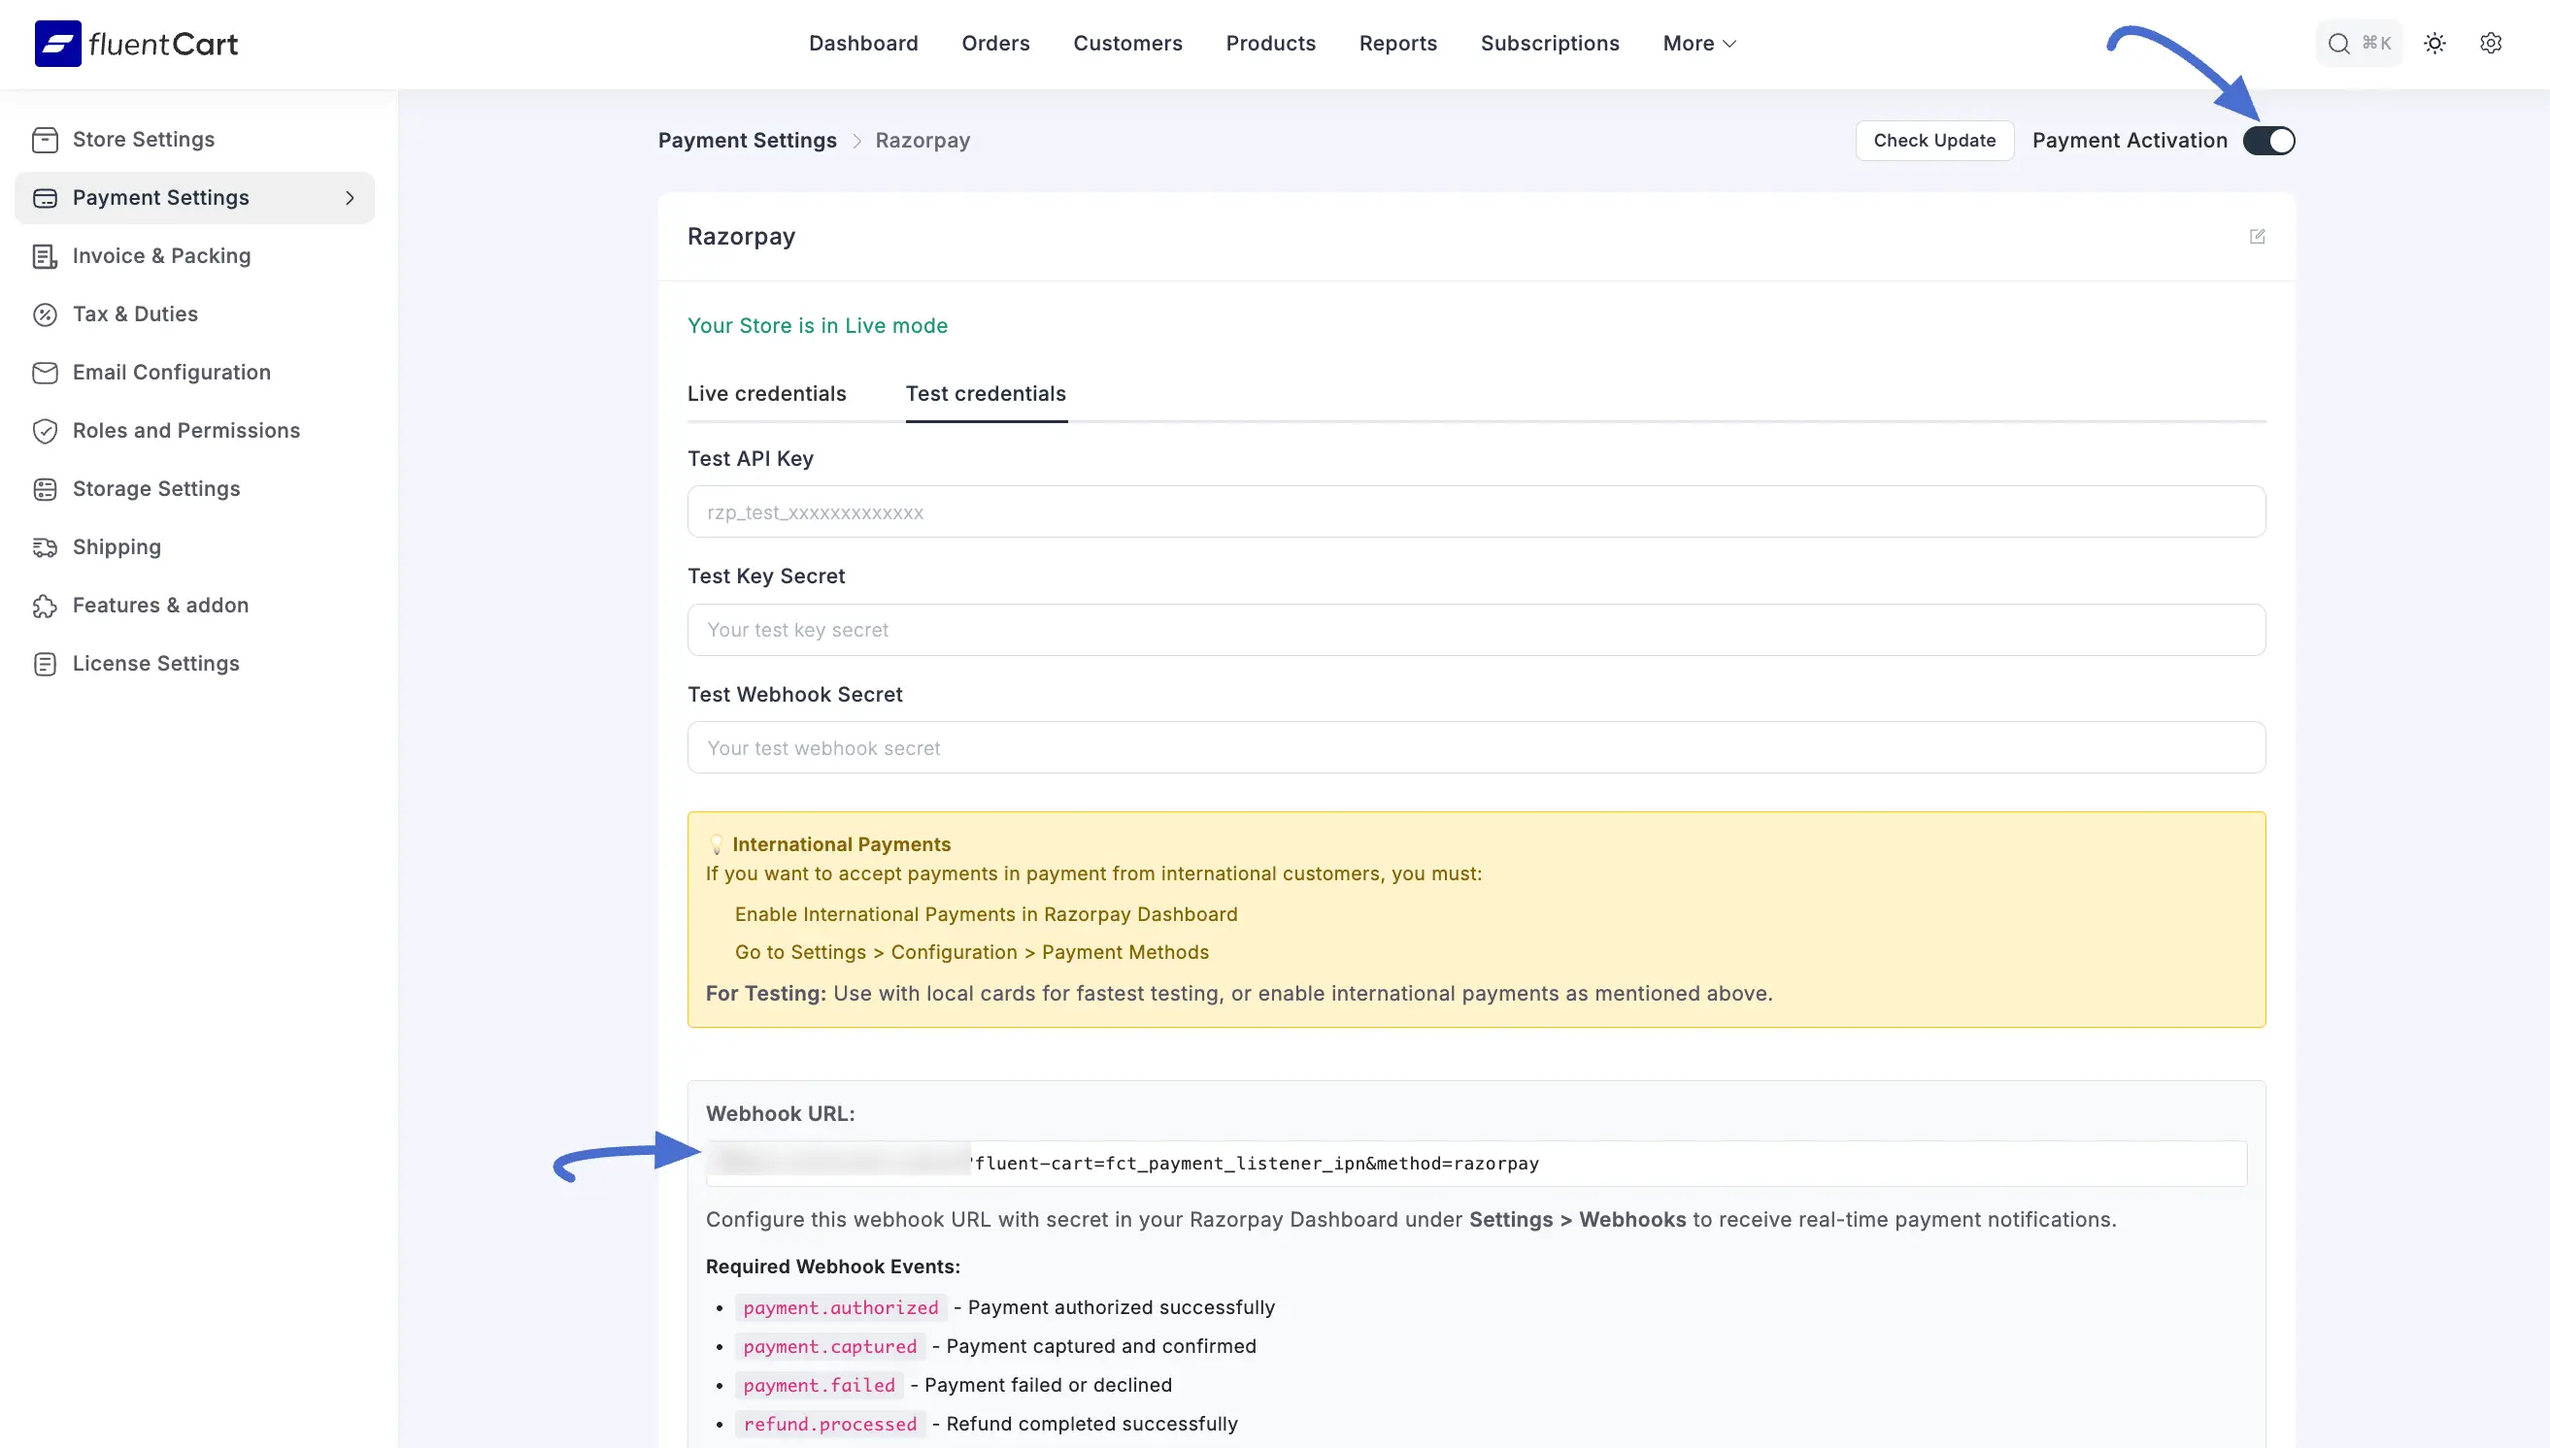
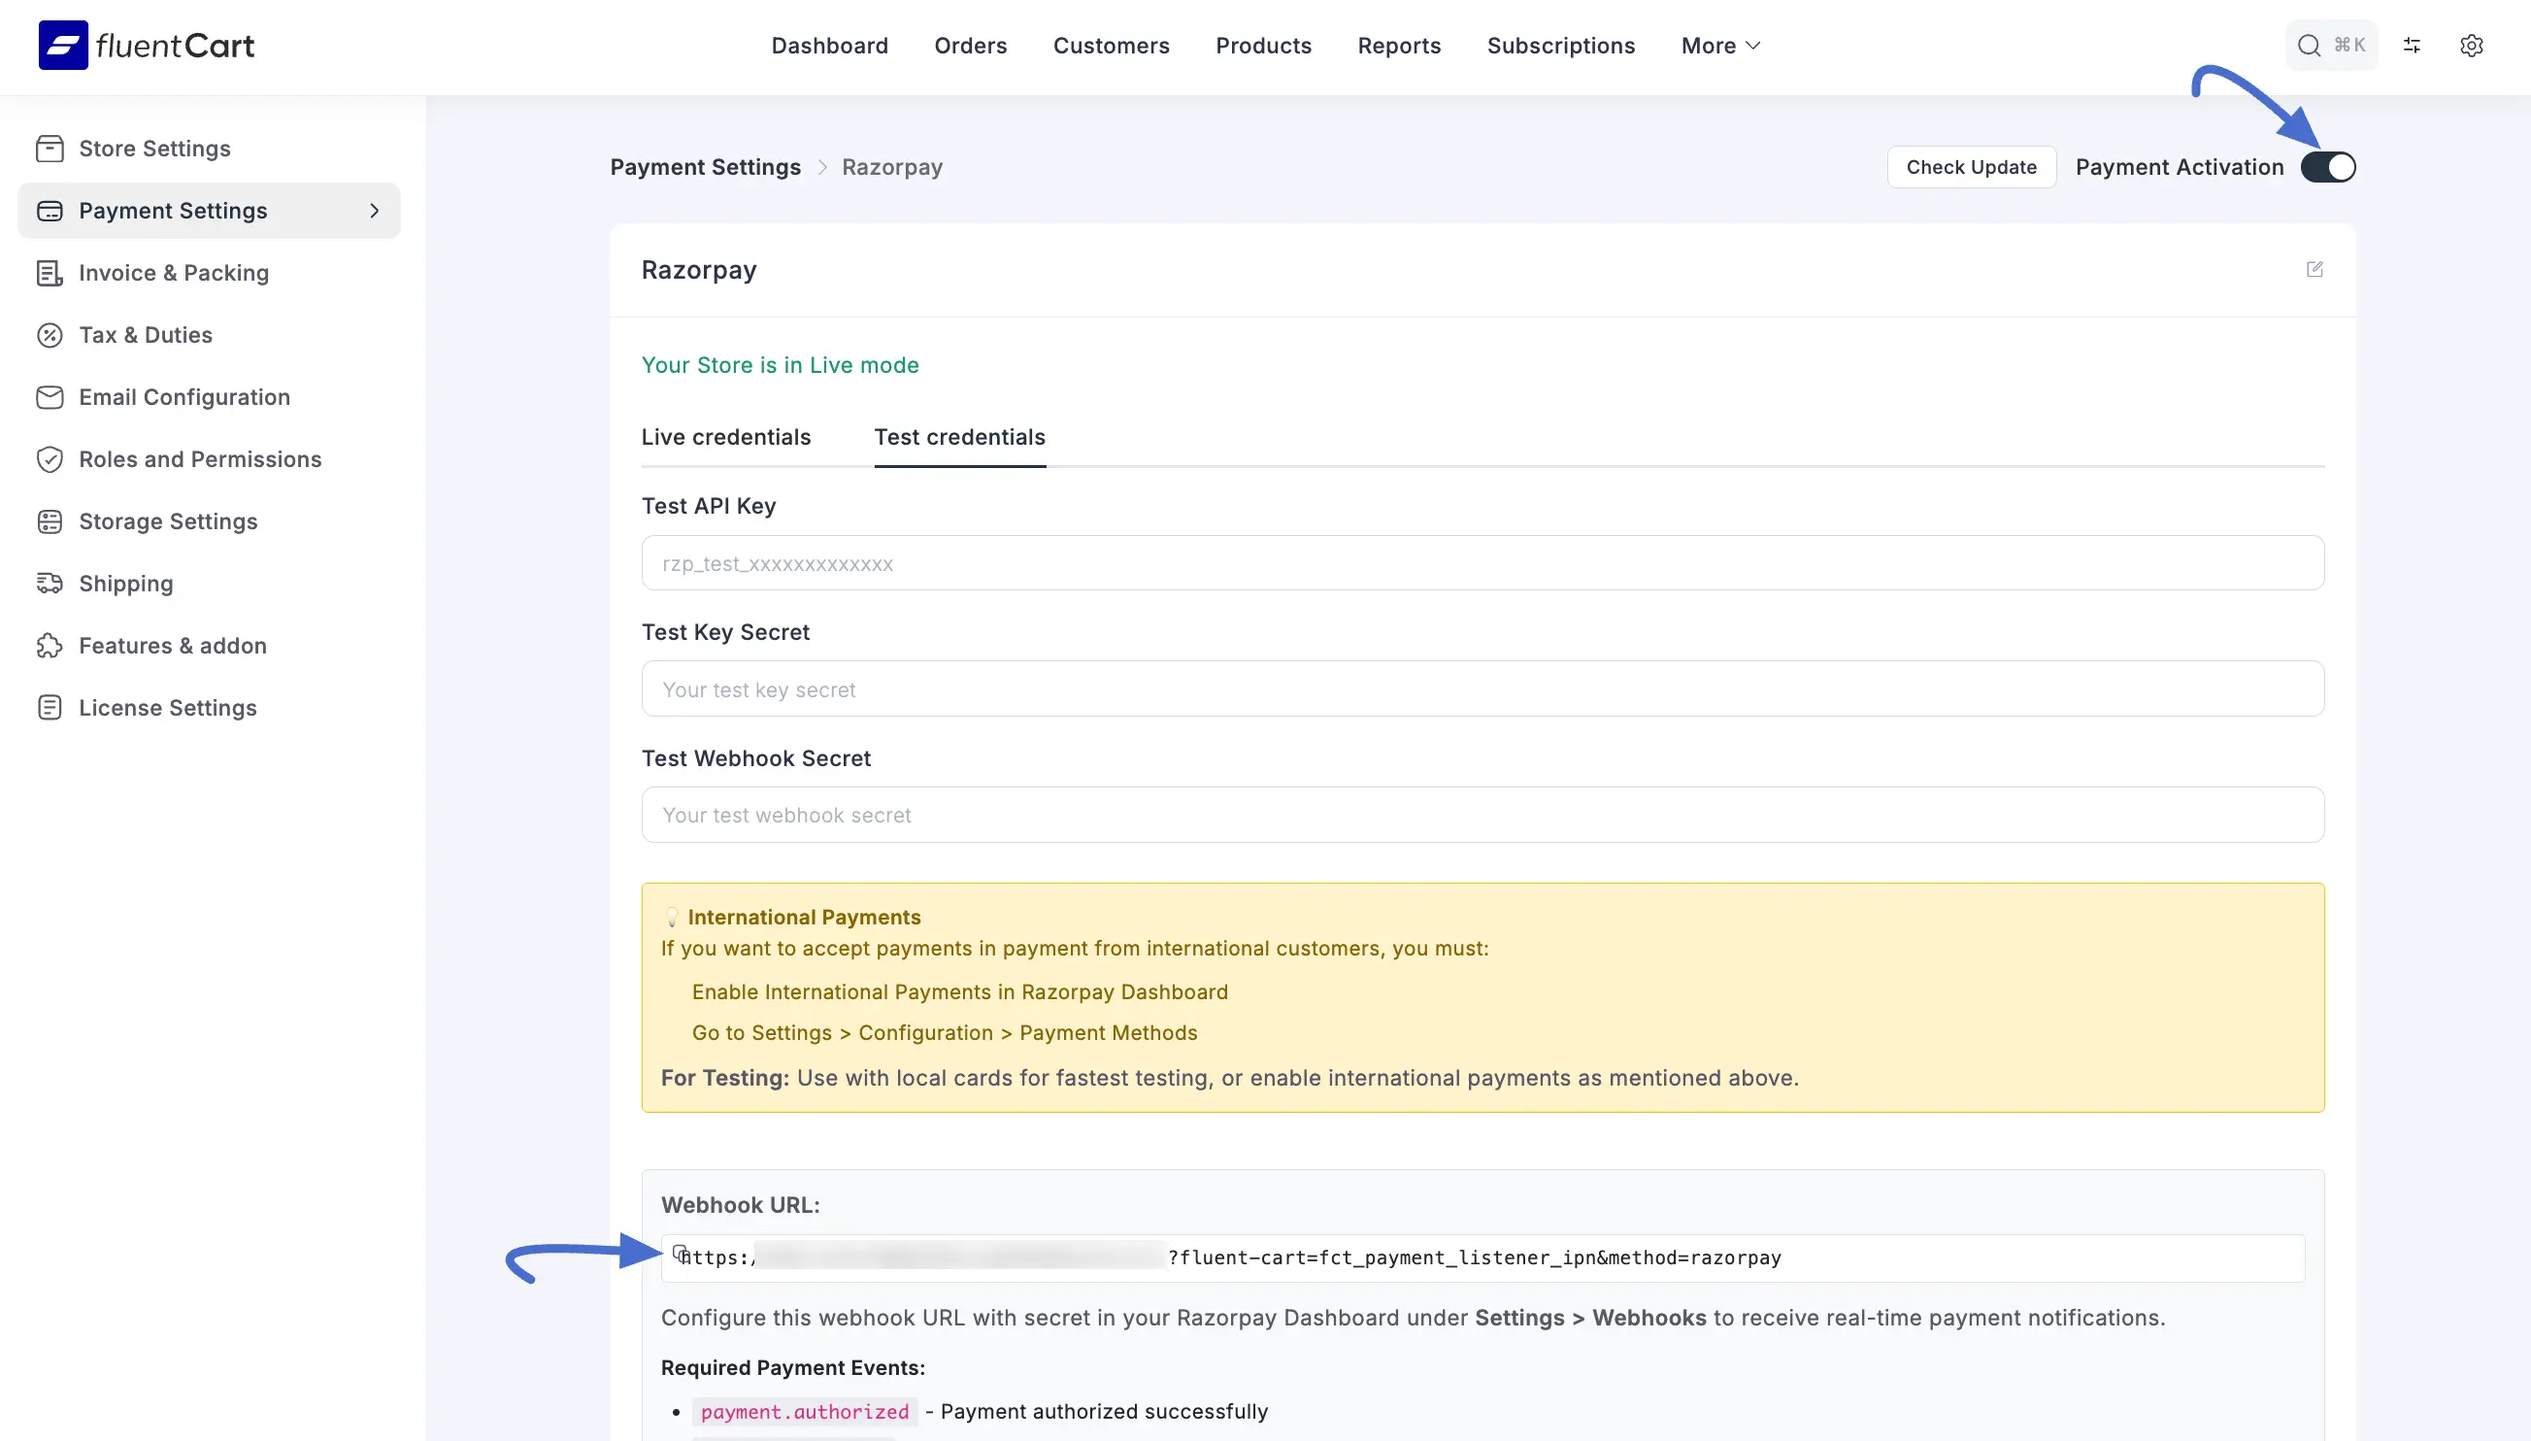
Razorpay Settings doc update

diff --git a/guide/payments-checkout/connecting-payment-gateways/razorpay-settings.md b/guide/payments-checkout/connecting-payment-gateways/razorpay-settings.md
@@ -64,13 +64,29 @@ Webhooks are like "digital status updates." They tell FluentCart exactly when a 
 ![ Add New Webhook](/guide/public/images/payments-checkout/razorpay-settings/add-new-webhook-6.webp)
 
 3.  In the popup that appears, paste the **Webhook URL** you copied before from FluentCart.
-4.  In the **Active Events** section, you must select these specific events:
-    * `payment.authorized`
-    * `payment.captured`
-    * `payment.failed`
-    * `refund.processed`
-5.  Click the **Create Webhook** button to make sure your store stays updated.
-6.  Razorpay will provide a **Webhook Secret**. Copy it for later use.
+4.  In the **Active Events** section, select these specific events to ensure your store stays updated:
+
+    **Required Payment Events:**
+
+    * `payment.authorized` — Payment authorized successfully.
+    * `payment.captured` — Payment captured and confirmed.
+    * `payment.failed` — Payment failed or declined.
+    * `refund.processed` — Refund completed successfully.
+
+    **Required Subscription Events (if applicable):**
+
+    * `subscription.authenticated` — Customer completed authentication.
+    * `subscription.activated` — Subscription is now active.
+    * `subscription.charged` — Recurring payment successful.
+    * `subscription.cancelled` — Subscription was cancelled.
+    * `subscription.halted` — Payment failures caused a halt.
+    * `subscription.completed` — All billing cycles completed.
+
+5.  Click the **Create Webhook** button to save your changes.
+6.  Razorpay will provide a **Webhook Secret**. **Copy** it for later use.
+
+> [!IMPORTANT]
+> Make sure to save the Webhook Secret in the credentials section in your FluentCart settings for secure webhook verification.
 
 ![ Create Webhook](/guide/public/images/payments-checkout/razorpay-settings/create-webhook-7.webp)
 
